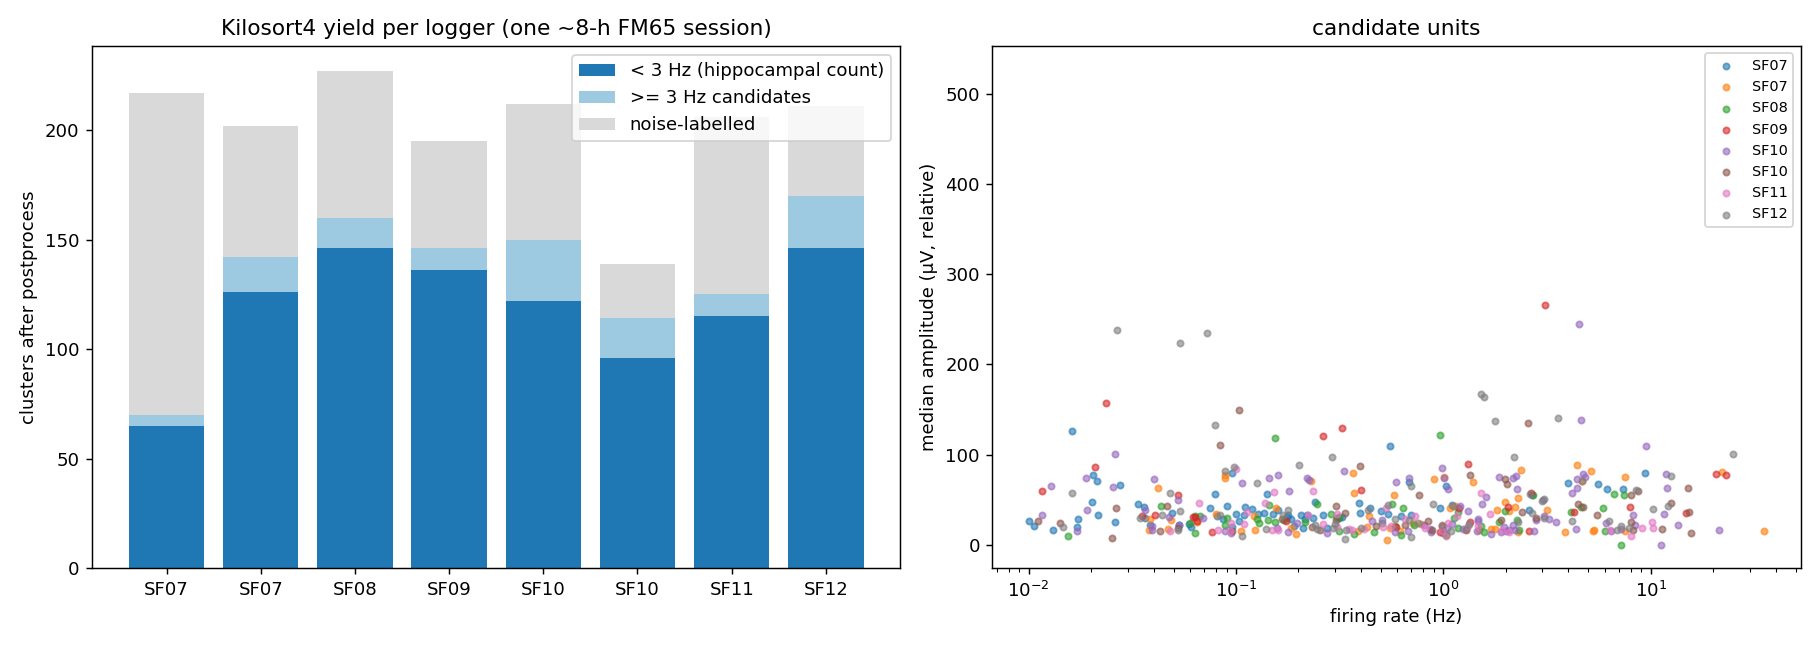
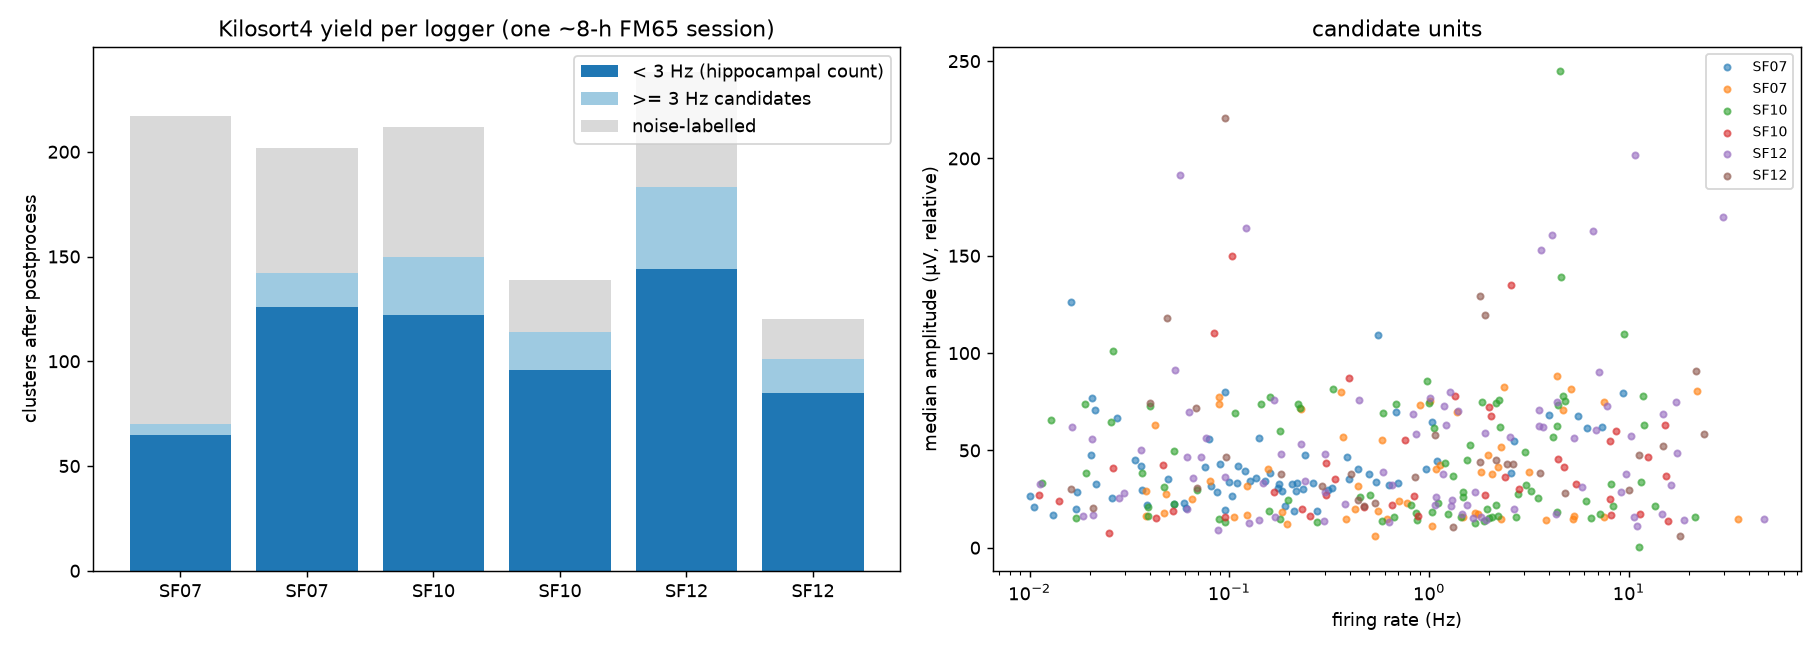
ephys 2026c FM64 salvage: answered on SF12 with the settled map - de-glitched FM64 is sortable only with a template-shape filter
Matched 3-h morning windows, same XML and settings: FM64 (908 ticks/s, de-glitched) gives 125 accepted templates of which 45 are
one-sample and 48 impulse-shaped (38 %), against 3 of 62 (5 %) on the FM65 control. The neighbour/peak ratio of the peak-channel
template is bimodal on FM64 (quartiles 0.23/0.92) and unimodal on FM65 (0.79/0.91), so the residue units are separable; the
normal-shaped population matches FM65 in SNR and amplitude, so real units survive the de-glitch. Superseded-XML sorts (434 GB) were
deleted first; SF07 and SF10 kept.

diff --git a/results/2026c/ephys_spikes/reports/ephys_spikes_ks4_unit_yield_2026c.md b/results/2026c/ephys_spikes/reports/ephys_spikes_ks4_unit_yield_2026c.md
@@ -1,6 +1,6 @@
 # Kilosort4 unit yield, cohort `2026c`
 
-Generated 2026-09-08T20:24:25+00:00 by `ephys/unit_yield_report.py` (git 60f3478+dirty) from `E:\3rd_rat_spikes\analysis\sort`. One ~8-h FM65 daytime session per logger (2026-09-02), PreprocessPipeline defaults (500–8000 Hz, local CMR 20–200 µm, per-shank high-amplitude artifact removal at 5 σ), Kilosort4 per shank, postprocess (dedupe → merge → autosplit → metrics → noise labels). Definitions in the script docstring. **Counts are pre-curation**: `candidate` = everything not auto-labelled noise; **`< 3 Hz` = the hippocampal count** (pyramidal cells fire sparsely, so cells are counted by rate < 3 Hz, no minimum-rate gate beyond the 0.01-Hz postprocess floor); `≥ 3 Hz` = fast-firing candidates (putative interneurons / multi-unit); `well-isolated` = ISI-violation ratio < 0.5 and SNR ≥ 5 (isolation only). Channel maps: SF07 verified; SF08/10/11/12 provisional (SF07's map); SF09 data-derived groups without geometry. Rows with stage `ks4-raw` are Kilosort4 output whose postprocess has not run yet: labels = Kilosort's KSLabel (+ the sorter runner's low-rate relabel), `well-isolated` there = KSLabel good & ContamPct < 10, amplitude/SNR medians unavailable. `post_mode` fast = features on ≤ 500 spikes per unit, no PCA autosplit, no Phy pc_features (see ephys/run_sort_session.py); full = the pipeline's all-spike passes.
+Generated 2026-09-09T05:23:20+00:00 by `ephys/unit_yield_report.py` (git 28a0ed8+dirty) from `E:\3rd_rat_spikes\analysis\sort`. One ~8-h FM65 daytime session per logger (2026-09-02), PreprocessPipeline defaults (500–8000 Hz, local CMR 20–200 µm, per-shank high-amplitude artifact removal at 5 σ), Kilosort4 per shank, postprocess (dedupe → merge → autosplit → metrics → noise labels). Definitions in the script docstring. **Counts are pre-curation**: `candidate` = everything not auto-labelled noise; **`< 3 Hz` = the hippocampal count** (pyramidal cells fire sparsely, so cells are counted by rate < 3 Hz, no minimum-rate gate beyond the 0.01-Hz postprocess floor); `≥ 3 Hz` = fast-firing candidates (putative interneurons / multi-unit); `well-isolated` = ISI-violation ratio < 0.5 and SNR ≥ 5 (isolation only). Channel maps (2026-09-08): SF07 verified; SF08/SF10/SF12 LFP-derived within-shank order (test #3, operator-inspected), SF09 reconstructed from the A5x12-16-Buz datasheet, SF11 grouping only (SF07's column sets). Dead columns are skip=1 pace makers at their shank's largest sharp-wave gradient gap; SF12's and SF08's bridged connector pins are skip=1 in place. Rows with stage `ks4-raw` are Kilosort4 output whose postprocess has not run yet: labels = Kilosort's KSLabel (+ the sorter runner's low-rate relabel), `well-isolated` there = KSLabel good & ContamPct < 10, amplitude/SNR medians unavailable. `post_mode` fast = features on ≤ 500 spikes per unit, no PCA autosplit, no Phy pc_features (see ephys/run_sort_session.py); full = the pipeline's all-spike passes.
 
 ## Per logger
 
@@ -8,13 +8,11 @@ Generated 2026-09-08T20:24:25+00:00 by `ephys/unit_yield_report.py` (git 60f3478
 |---|---|---|---|---|---|---|---|---|---|---|---|---|---|---|---|---|---|
 | SF07 | `15_20260902_082418.755` | 8.5 | FM65 | done (full) | 4 | 227 | 217 | 147 | 70 | **65** | 6 | 5 | 2,002,338 | 0.15 | 34 | - | 545 |
 | SF07 | `2_20260901_002100.939` | 5.3 | FM64 | done (fast) | 4 | 236 | 202 | 60 | 142 | **126** | 9 | 16 | 4,603,347 | 0.09 | 32 | - | 183 |
-| SF08 | `13_20260902_082748.094` | 9.9 | FM65 | done (fast) | 4 | 285 | 227 | 67 | 160 | **146** | 4 | 14 | 6,187,100 | 0.07 | 25 | 32 | 375 |
-| SF09 | `10_20260902_083015.335` | 8.5 | FM65 | done (fast) | 5 | 267 | 195 | 49 | 146 | **136** | 10 | 10 | 5,520,578 | 0.01 | 30 | 2 4 32 36 52 54 56 58 60 62 | 259 |
 | SF10 | `1_20260901_080143.036` | 4.9 | FM64 | done (fast) | 3 | 221 | 212 | 62 | 150 | **122** | 8 | 28 | 6,212,085 | 0.22 | 32 | 2 32 34 48 49 50 51 52 53 54 55 56 57 58 59 60 61 62 63 | 97 |
 | SF10 | `9_20260902_083247.835` | 8.5 | FM65 | done (fast) | 3 | 175 | 139 | 25 | 114 | **96** | 7 | 18 | 6,279,314 | 0.10 | 36 | 32 34 56 | 806 |
-| SF11 | `12_20260902_083534.755` | 8.5 | FM65 | done (fast) | 4 | 233 | 206 | 81 | 125 | **115** | 3 | 10 | 4,451,641 | 0.09 | 20 | - | 276 |
-| SF12 | `11_20260902_083748.804` | 9.7 | FM65 | done (fast) | 4 | 296 | 211 | 41 | 170 | **146** | 23 | 24 | 8,945,316 | 0.09 | 36 | - | 329 |
-| **total** | | | | | | 1940 | 1609 | 532 | 1077 | **952** | 70 | 125 | | | | | |
+| SF12 | `0_20260901_080334.683__w0s_10800s` | 3.0 | FM64 | done (fast) | 4 | 288 | 238 | 55 | 183 | **144** | 19 | 39 | 5,850,731 | 0.17 | 39 | 3 5 10 14 17 23 36 37 38 45 46 | 88 |
+| SF12 | `11_20260902_083748.804__w0s_10800s` | 3.0 | FM65 | done (fast) | 4 | 259 | 120 | 19 | 101 | **85** | 19 | 16 | 2,728,198 | 0.12 | 41 | 3 5 10 14 17 23 36 37 38 45 46 | 81 |
+| **total** | | | | | | 1406 | 1128 | 368 | 760 | **638** | 68 | 122 | | | | | |
 
 ## Per shank
 
@@ -28,32 +26,23 @@ Generated 2026-09-08T20:24:25+00:00 by `ephys/unit_yield_report.py` (git 60f3478
 | SF07 | 2 | post | 57 | 49 | 0 | 0 | 34 | 15 | 34 | 33 | 2 | 1 | 613,210 | 0.01 | 39 | 3.4 |
 | SF07 | 3 | post | 56 | 55 | 0 | 0 | 36 | 19 | 36 | 31 | 3 | 5 | 1,145,304 | 0.11 | 23 | 2.4 |
 | SF07 | 4 | post | 65 | 51 | 0 | 0 | 36 | 15 | 36 | 32 | 2 | 4 | 826,502 | 0.03 | 20 | 2.7 |
-| SF08 | 1 | post | 69 | 67 | 0 | 0 | 45 | 22 | 45 | 43 | 0 | 2 | 1,411,199 | 0.23 | 21 | 2.3 |
-| SF08 | 2 | post | 49 | 48 | 0 | 0 | 31 | 17 | 31 | 26 | 2 | 5 | 1,875,650 | 0.09 | 30 | 3.3 |
-| SF08 | 3 | post | 92 | 56 | 0 | 0 | 42 | 14 | 42 | 39 | 2 | 3 | 1,238,487 | 0.00 | 28 | 3.0 |
-| SF08 | 4 | post | 75 | 56 | 0 | 0 | 42 | 14 | 42 | 38 | 0 | 4 | 1,661,764 | 0.15 | 25 | 2.5 |
-| SF09 | 1 | post | 83 | 59 | 0 | 0 | 45 | 14 | 45 | 44 | 4 | 1 | 1,119,535 | 0.00 | 28 | 2.4 |
-| SF09 | 2 | post | 18 | 18 | 0 | 0 | 14 | 4 | 14 | 10 | 0 | 4 | 1,557,668 | 1.33 | 40 | 3.2 |
-| SF09 | 3 | post | 42 | 38 | 0 | 0 | 28 | 10 | 28 | 25 | 3 | 3 | 1,138,205 | 0.02 | 29 | 2.7 |
-| SF09 | 4 | post | 36 | 31 | 0 | 0 | 20 | 11 | 20 | 20 | 2 | 0 | 165,708 | 0.01 | 31 | 2.7 |
-| SF09 | 5 | post | 88 | 49 | 0 | 0 | 39 | 10 | 39 | 37 | 1 | 2 | 1,539,462 | 0.00 | 30 | 2.6 |
 | SF10 | 2 | post | 66 | 66 | 0 | 0 | 45 | 21 | 45 | 35 | 2 | 10 | 1,908,695 | 0.22 | 33 | 2.9 |
 | SF10 | 3 | post | 77 | 72 | 0 | 0 | 51 | 21 | 51 | 42 | 2 | 9 | 2,057,709 | 0.66 | 29 | 3.0 |
 | SF10 | 4 | post | 78 | 74 | 0 | 0 | 54 | 20 | 54 | 45 | 4 | 9 | 2,245,681 | 0.13 | 35 | 3.7 |
 | SF10 | 2 | post | 61 | 54 | 0 | 0 | 45 | 9 | 45 | 37 | 2 | 8 | 2,502,929 | 0.23 | 31 | 3.1 |
 | SF10 | 3 | post | 52 | 35 | 0 | 0 | 29 | 6 | 29 | 25 | 2 | 4 | 1,851,536 | 0.10 | 31 | 3.4 |
 | SF10 | 4 | post | 62 | 50 | 0 | 0 | 40 | 10 | 40 | 34 | 3 | 6 | 1,924,849 | 0.07 | 46 | 4.8 |
-| SF11 | 1 | post | 57 | 51 | 0 | 0 | 28 | 23 | 28 | 26 | 0 | 2 | 647,771 | 0.08 | 19 | 2.0 |
-| SF11 | 2 | post | 54 | 45 | 0 | 0 | 29 | 16 | 29 | 27 | 0 | 2 | 636,738 | 0.00 | 21 | 2.0 |
-| SF11 | 3 | post | 57 | 48 | 0 | 0 | 28 | 20 | 28 | 27 | 0 | 1 | 1,288,249 | 0.10 | 18 | 1.8 |
-| SF11 | 4 | post | 65 | 62 | 0 | 0 | 40 | 22 | 40 | 35 | 3 | 5 | 1,878,883 | 0.17 | 21 | 2.2 |
-| SF12 | 1 | post | 42 | 38 | 0 | 0 | 28 | 10 | 28 | 19 | 2 | 9 | 2,498,468 | 0.17 | 43 | 3.9 |
-| SF12 | 2 | post | 103 | 69 | 0 | 0 | 56 | 13 | 56 | 53 | 2 | 3 | 1,016,310 | 0.01 | 24 | 3.4 |
-| SF12 | 3 | post | 96 | 51 | 0 | 0 | 42 | 9 | 42 | 37 | 13 | 5 | 2,466,964 | 0.07 | 62 | 6.0 |
-| SF12 | 4 | post | 55 | 53 | 0 | 0 | 44 | 9 | 44 | 37 | 6 | 7 | 2,963,574 | 0.32 | 37 | 4.1 |
+| SF12 | 1 | post | 76 | 59 | 0 | 0 | 40 | 19 | 40 | 31 | 1 | 9 | 1,338,224 | 0.11 | 38 | 3.7 |
+| SF12 | 2 | post | 55 | 41 | 0 | 0 | 30 | 11 | 30 | 23 | 1 | 7 | 1,292,365 | 0.54 | 34 | 3.8 |
+| SF12 | 3 | post | 55 | 49 | 0 | 0 | 38 | 11 | 38 | 26 | 6 | 12 | 1,692,811 | 0.39 | 46 | 4.5 |
+| SF12 | 4 | post | 102 | 89 | 0 | 0 | 75 | 14 | 75 | 64 | 11 | 11 | 1,527,331 | 0.07 | 41 | 4.6 |
+| SF12 | 1 | post | 25 | 15 | 0 | 0 | 14 | 1 | 14 | 8 | 1 | 6 | 717,973 | 0.71 | 38 | 3.7 |
+| SF12 | 2 | post | 25 | 22 | 0 | 0 | 16 | 6 | 16 | 15 | 0 | 1 | 249,093 | 0.48 | 30 | 3.5 |
+| SF12 | 3 | post | 149 | 38 | 0 | 0 | 30 | 8 | 30 | 27 | 12 | 3 | 819,323 | 0.09 | 74 | 10.0 |
+| SF12 | 4 | post | 60 | 45 | 0 | 0 | 41 | 4 | 41 | 35 | 6 | 6 | 941,809 | 0.00 | 39 | 4.2 |
 
 ## Caveats
 
 - Pre-curation numbers from one session per logger; Phy curation (merges/splits, the 'good' label) is still to be done, so treat `candidate` as an upper bound and `well-isolated` as a conservative lower bound.
-- SF09's channel groups are data-derived (no geometry); SF08/10/11/12 use SF07's map provisionally; a wrong map lowers yield rather than inflating it.
+- Channel maps: SF07 verified, SF08/SF10/SF12 LFP-derived order (operator-inspected 2026-09-08), SF09 reconstructed from the datasheet, SF11 grouping only; a wrong map lowers yield rather than inflating it.
 - Amplitudes assume the Intan 0.195 µV/count scale (WILD gain not verified).

diff --git a/change_log/2026-09-02-ephys-spike-sorting-pipeline.md b/change_log/2026-09-02-ephys-spike-sorting-pipeline.md
@@ -838,3 +838,31 @@ membership depends on the mating and cannot be read off the hardware. SF09's gro
 **Discrepancy to keep in mind:** the console table `ephys/configs/wild_ce64_channel_map_v57.csv` (`WILDIntanmapped`) agrees with the figure's
 column→Intan map on 32 of 64 columns and differs by pairwise swaps on columns 0–15 and 48–63. Our XMLs do not use that table (they use the vendor
 rotation script), but the two documents are not the same map and only the figure is corroborated by the netlist.
+
+## Addendum 2026-09-09 (01:23) — FM64 salvage answered on SF12 with the settled map: sortable only with a template-shape filter
+
+Operator's instruction (2026-09-08 21:30): delete the Kilosort output made with the superseded XMLs, then run ONE animal to find out whether de-glitched
+FM64 can be spike-sorted, finishing before the 06:00 card offload.
+
+- **Deleted** (analysis folder only, raw folders and `recovery.bin` untouched): `sort/SF08/13_20260902_082748.094`, `sort/SF09/10_20260902_083015.335`,
+  `sort/SF09/_superseded`, `sort/SF11/12_20260902_083534.755`, `sort/SF12/11_20260902_083748.804` — 434 GB. SF07 (map never changed) and SF10 (today's edit
+  moved only skip channels) were kept. The numbers of the deleted runs live on in commit 2a6c47c.
+- **Design.** SF12, matched 3-h morning windows, same XML (`SF12_A4x16-Lin_dataorder_20260908.xml`, spike groups 16/11/11/15), same settings, sequential:
+  FM64 `0_20260901_080334.683` (08:03, 908 ticks/s; de-glitch removed 11,684,684 ticks, 225 left; staged 29 min, sorted 88 min) and FM65
+  `11_20260902_083748.804` (08:37, untouched; staged 20 min, sorted 81 min).
+- **Result.**
+
+  | | accepted templates | one-sample | impulse-shaped (ratio < 0.4) | FWHM median | candidates | < 3 Hz | well-isolated |
+  |---|---|---|---|---|---|---|---|
+  | FM64 de-glitched | 125 | 45 (36 %) | 48 (38 %) | 3.0 | 183 | 144 | 26 |
+  | FM65 control | 62 | 3 (5 %) | 3 (5 %) | 4.0 | 101 | 85 | 20 |
+
+  The artefacts are a band-pass-filtered single-sample impulse — e.g. `-4.7 -6.1 +7.2 -11.0 +22.5 +76.0 +18.6 -17.6 -2.3` against a real spike's
+  `+55.6 +56.4 +45.2 -23.4 -118.9 -154.9 -137.9 -108.0`. The neighbour/peak ratio of the peak-channel template separates them: bimodal on FM64
+  (quartiles 0.23 / 0.92, deciles 0.20 / 0.96), unimodal on FM65 (0.79 / 0.91). On FM64 the impulse population fires faster (1.5 vs 0.8 Hz) with lower SNR
+  (3.2 vs 4.5) and smaller amplitude (31 vs 46 uV) than the normal-shaped population, which itself matches FM65's (SNR 4.3, 41 uV).
+- **Verdict.** De-glitched FM64 is usable for spike sorting **provided units with neighbour/peak ratio < 0.4 are rejected**; the real units survive the
+  de-glitch (77 normal-shaped units on FM64 vs 59 on FM65 in the same 3 h). Without that filter roughly two units in five would be defect residue.
+  This also answers the SF07 puzzle only partly: SF07's FM64 gave 55 % one-sample at 13 ticks/s, far more than SF12 at 908 ticks/s, so on SF07 the residue is
+  not the whole story — its 51-59 % common-mode component is the likelier cause and its FM64 sort should not be used.
+- Not tested here: whether the surviving units' waveforms are subtly distorted by the 0.3-0.55 % of samples the de-glitch replaces.

diff --git a/implementation_plan/2026-09-07-fm64-salvage-test.md b/implementation_plan/2026-09-07-fm64-salvage-test.md
@@ -1,13 +1,15 @@
-# FM64 salvage test (2026-09-07) — QUEUED, not started
+# FM64 salvage test (2026-09-07) — DONE 2026-09-09, FM64 usable with a template-shape filter
 
-**Status.** RUNNING since 2026-09-07 23:45 (operator: "que 一个 FM64 noise 对 spike sorting 影响"; 2026-09-08 is a free day,
-no card offload). 2026-09-08 update: SF10 `1_20260901_080143.036` (FM64 day) staged + sorted (queue v6, 10:12 → 12:33, 55/59/58 units
-on the three live shanks) and step 2 run on it: **39 % of its accepted units have one-sample-wide templates vs 3–8 % on the FM65
-sessions (`ephys/template_width_check.py`, `results/2026c/ephys_spikes/reports/ephys_spikes_template_width_2026c.csv`) → the
-de-glitched FM64 day FAILS the step-3 criterion for SF10.** SF07 `2_20260901_002100.939` (FM64 night): staged 12:33 → 13:20
-(`stage_manifest.json` deglitch_applied = true, 156,221 ticks → 343; the conda wrapper printed rc=127 AFTER the stage's own
-done line — a wrapper artefact, the copy is complete), Kilosort4 on the staged copy from 13:20 (four shanks sorted by 16:04,
-postprocess in progress). Steps 2–3 on SF07 and the final comparison follow when it lands; step 4 (donor-match rule) is not started.
+**Status. DONE 2026-09-09 01:23 — VERDICT: de-glitched FM64 is sortable ONLY WITH a template-shape filter.** The decisive test ran on SF12 with the
+channel map settled on 2026-09-08 (the operator's earlier attempts used superseded XMLs and were discarded together with those sorts): matched 3-h morning
+windows of `0_20260901_080334.683` (FM64, 908 ticks/s, de-glitched: 11,684,684 ticks -> 225) and `11_20260902_083748.804` (FM65, untouched), the same XML,
+the same settings, one after the other. Result: the de-glitch leaves a residue that Kilosort4 sorts into extra 'units' whose templates are a band-pass-filtered
+single-sample impulse (a sharp peak with symmetric ringing, no real repolarisation). They are 36-38 % of accepted units on FM64 against 5 % on FM65, and the
+measure separates them cleanly: the neighbour/peak ratio of the peak-channel template is bimodal on FM64 (quartiles 0.23 / 0.92) and unimodal on FM65
+(0.79 / 0.91). Removing them leaves 77 normal-shaped accepted units on FM64 against 59 on FM65 for the same 3 h, with matching SNR (4.5 vs 4.3) and amplitude
+(46 vs 41 uV) — i.e. the real units survive the de-glitch. Step 3's literal criterion fails (accepted one-sample units exist) while the yield criterion passes
+(well-isolated 26 vs 20 = 130 %). Practical rule adopted: FM64 sessions may be sorted, but every unit with neighbour/peak ratio < 0.4 must be rejected before
+any analysis; `ephys/template_width_check.py` computes it. Step 4 (donor-match rule) is not needed for this decision and stays unstarted.
 
 **Question.** Can the pre-FM65 sessions (FM64, 2026-08-31 19:00 → 2026-09-01 18:20, 17–22 h per logger, the earliest
 surviving night after release with all six loggers) be used after de-glitching — for LFP certainly, for spike sorting
